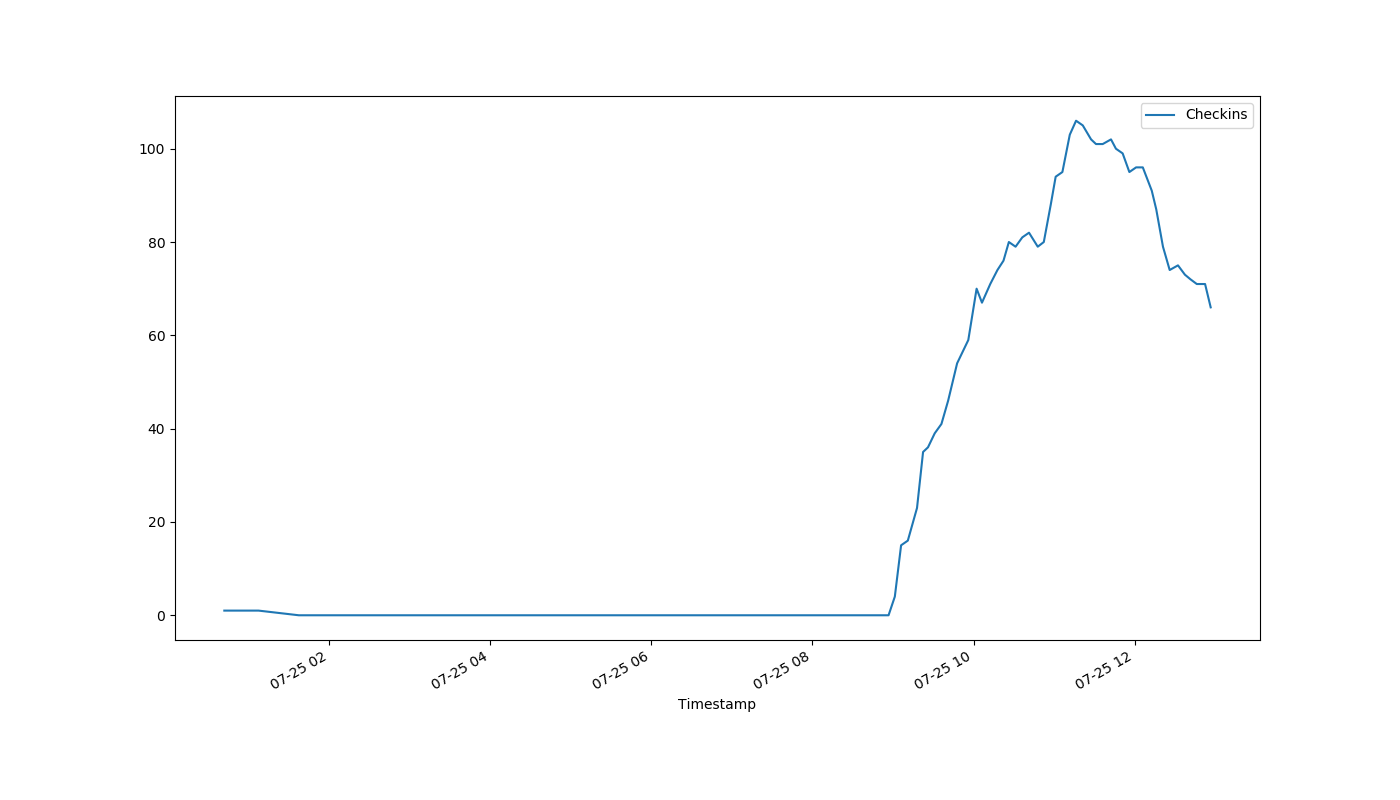
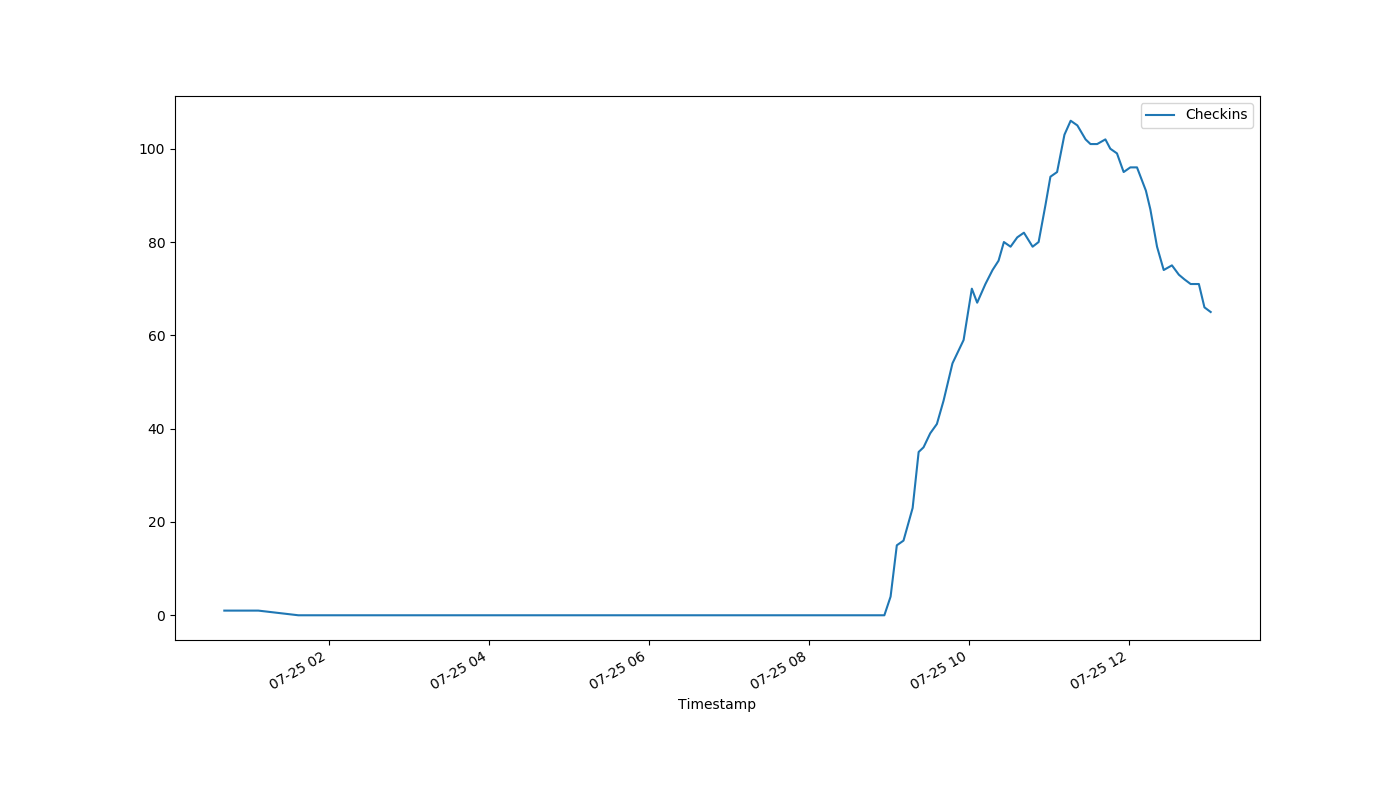
auto-Jul-25-13:02:26

diff --git a/index.html b/index.html
@@ -1,1 +1,1 @@
-<!DOCTYPE html><html><head><meta http-equiv="refresh" content="30"><link rel='stylesheet' href='holmcurrent.css'></head><body><p id='count'>66</p><div id='graph-wrap'><img id='graph' src='holmgraph-Jul-25.png'></div><p id='updated'>Last updated 12:57:01 / 12:56:36</p></body></html>
+<!DOCTYPE html><html><head><meta http-equiv="refresh" content="30"><link rel='stylesheet' href='holmcurrent.css'></head><body><p id='count'>65</p><div id='graph-wrap'><img id='graph' src='holmgraph-Jul-25.png'></div><p id='updated'>Last updated 13:02:02 / 13:01:16</p></body></html>
